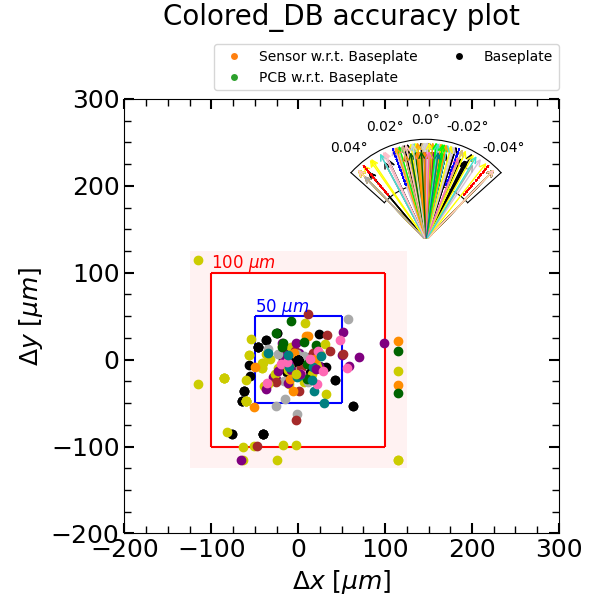
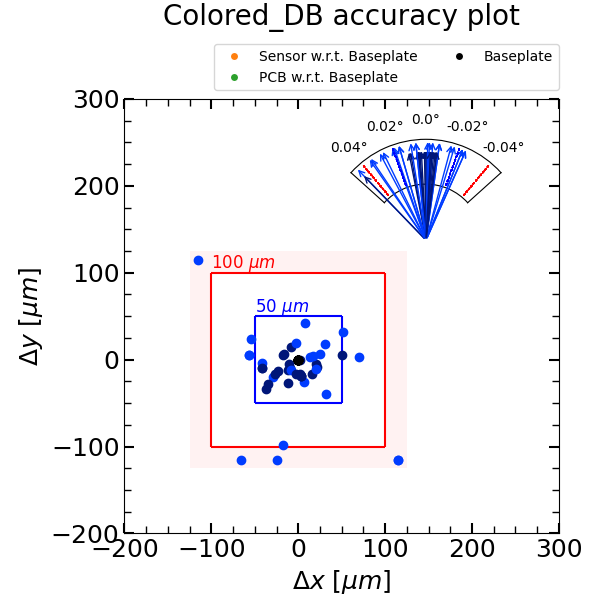
Made the Changes Nessecary For Doing Tray Specific Plots

diff --git a/make_accuracy_plot_PositionsNColorsExclusive.py b/make_accuracy_plot_PositionsNColorsExclusive.py
@@ -23,6 +23,8 @@ from matplotlib.ticker import MultipleLocator
 import matplotlib as mpl
 mpl.use('Agg')
 
+EXTray = '104'
+
 def returncolor(TrayPosition):
     Pos, Tray = TrayPosition
 
@@ -65,7 +67,7 @@ def make_accuracy_plot(List):
     List_rel_pcb_angle = List[6];
     List_Tray_Position = List[7];
     
-    module_name = 'Colored_DB'
+    module_name = 'Tray 104 History'
         
         ############################ || ORIENTATION SETTINGS || #######################
     """
@@ -155,54 +157,55 @@ def make_accuracy_plot(List):
 #    ax.hlines(0, -200, 300, colors='k')
 
     for i in range(len(List_module_name)):
-        
-        rel_sensor_X = List_rel_sensor_X[i] * 1000  #Modified here to have Manual Input
-        rel_sensor_Y = List_rel_sensor_Y[i] * 1000
-        rel_pcb_X    = List_rel_pcb_X[i] * 1000
-        rel_pcb_Y    = List_rel_pcb_Y[i] * 1000
-        
-        rel_sensor_X = List_rel_sensor_X[i] * 1000  #Modified here to have Manual Input
-        rel_sensor_Y = List_rel_sensor_Y[i] * 1000
-        rel_pcb_X    = List_rel_pcb_X[i] * 1000
-        rel_pcb_Y    = List_rel_pcb_Y[i] * 1000
-        
-        limit_func = lambda x: 115. if x > 100. else -115. if x < -100. else x
-        
-        m_rel_sensor_X = limit_func( rel_sensor_X )  
-        m_rel_sensor_Y = limit_func( rel_sensor_Y )
-        m_rel_pcb_X    = limit_func( rel_pcb_X    )
-        m_rel_pcb_Y    = limit_func( rel_pcb_Y    )
-        
-        scolor, hcolor = returncolor(List_Tray_Position[i])
-        
-        ax.plot(m_rel_sensor_X, m_rel_sensor_Y, marker='o', markerfacecolor=scolor, markeredgecolor=scolor, linestyle = 'None', label = 'Sensor w.r.t. Baseplate')
-        ax.plot(m_rel_pcb_X,    m_rel_pcb_Y,    marker='o', markerfacecolor=hcolor, markeredgecolor=hcolor, linestyle = 'None', label = 'PCB w.r.t. Baseplate')
-        
-        #if abs(m_rel_sensor_X) > 100. or abs(m_rel_sensor_Y) > 100.:
-        #    ax.text(m_rel_sensor_X, m_rel_sensor_Y, f'({rel_sensor_X:.0f}, {rel_sensor_Y:.0f})', color='#ff7f0e',
-        #            ha='right' if m_rel_sensor_X < -100. else 'left', va='top' if m_rel_sensor_Y < -100. else 'bottom')
-        #
-        #if abs(m_rel_pcb_X) > 100. or abs(m_rel_pcb_Y) > 100.:
-        #    ax.text(m_rel_pcb_X, m_rel_pcb_Y, f'({rel_pcb_X:.0f}, {rel_pcb_Y:.0f})', color='#2ca02c',
-        #            ha='right' if m_rel_sensor_X < -100. else 'left', va='top' if m_rel_sensor_Y < -100. else 'bottom')
-        
-        
-        
-        ax.plot(np.array([0.]), np.array([0.]), marker='o', markerfacecolor='k', markeredgecolor='k', linestyle = 'None', label = 'Baseplate')
-        
-        
-        plt.tick_params(axis='both', which='minor', direction='in', labelsize=0, length=5, width=1, right=True, top=True)
-        plt.tick_params(axis='both', which='major', direction='in', labelsize=18, length=7, width=1.5, right=True, top=True)
-        
-        
-        # Legend is hardcore 
-        legend_elements = [ Line2D([0], [0], marker='o', color='w', label='Sensor w.r.t. Baseplate', markerfacecolor='#ff7f0e'),
-                            Line2D([0], [0], marker='o', color='w', label='PCB w.r.t. Baseplate',    markerfacecolor='#2ca02c'),
-                            Line2D([0], [0], marker='o', color='w', label='Baseplate',               markerfacecolor='k')
-                            ]
-        
-        ax.legend(bbox_to_anchor=(0., 1.02, 1., .102), loc='lower right', ncol=2, borderaxespad=0., handles=legend_elements)
-        
+        if List_Tray_Position[i][1] == EXTray:
+
+            rel_sensor_X = List_rel_sensor_X[i] * 1000  #Modified here to have Manual Input
+            rel_sensor_Y = List_rel_sensor_Y[i] * 1000
+            rel_pcb_X    = List_rel_pcb_X[i] * 1000
+            rel_pcb_Y    = List_rel_pcb_Y[i] * 1000
+            
+            rel_sensor_X = List_rel_sensor_X[i] * 1000  #Modified here to have Manual Input
+            rel_sensor_Y = List_rel_sensor_Y[i] * 1000
+            rel_pcb_X    = List_rel_pcb_X[i] * 1000
+            rel_pcb_Y    = List_rel_pcb_Y[i] * 1000
+            
+            limit_func = lambda x: 115. if x > 100. else -115. if x < -100. else x
+            
+            m_rel_sensor_X = limit_func( rel_sensor_X )  
+            m_rel_sensor_Y = limit_func( rel_sensor_Y )
+            m_rel_pcb_X    = limit_func( rel_pcb_X    )
+            m_rel_pcb_Y    = limit_func( rel_pcb_Y    )
+            
+            scolor, hcolor = returncolor(List_Tray_Position[i])
+            
+            ax.plot(m_rel_sensor_X, m_rel_sensor_Y, marker='o', markerfacecolor=scolor, markeredgecolor=scolor, linestyle = 'None', label = 'Sensor w.r.t. Baseplate')
+            ax.plot(m_rel_pcb_X,    m_rel_pcb_Y,    marker='o', markerfacecolor=hcolor, markeredgecolor=hcolor, linestyle = 'None', label = 'PCB w.r.t. Baseplate')
+            
+            #if abs(m_rel_sensor_X) > 100. or abs(m_rel_sensor_Y) > 100.:
+            #    ax.text(m_rel_sensor_X, m_rel_sensor_Y, f'({rel_sensor_X:.0f}, {rel_sensor_Y:.0f})', color='#ff7f0e',
+            #            ha='right' if m_rel_sensor_X < -100. else 'left', va='top' if m_rel_sensor_Y < -100. else 'bottom')
+            #
+            #if abs(m_rel_pcb_X) > 100. or abs(m_rel_pcb_Y) > 100.:
+            #    ax.text(m_rel_pcb_X, m_rel_pcb_Y, f'({rel_pcb_X:.0f}, {rel_pcb_Y:.0f})', color='#2ca02c',
+            #            ha='right' if m_rel_sensor_X < -100. else 'left', va='top' if m_rel_sensor_Y < -100. else 'bottom')
+            
+            
+            
+            ax.plot(np.array([0.]), np.array([0.]), marker='o', markerfacecolor='k', markeredgecolor='k', linestyle = 'None', label = 'Baseplate')
+            
+            
+            plt.tick_params(axis='both', which='minor', direction='in', labelsize=0, length=5, width=1, right=True, top=True)
+            plt.tick_params(axis='both', which='major', direction='in', labelsize=18, length=7, width=1.5, right=True, top=True)
+            
+            
+            # Legend is hardcore 
+            legend_elements = [ Line2D([0], [0], marker='o', color='w', label='Sensor w.r.t. Baseplate', markerfacecolor='#ff7f0e'),
+                                Line2D([0], [0], marker='o', color='w', label='PCB w.r.t. Baseplate',    markerfacecolor='#2ca02c'),
+                                Line2D([0], [0], marker='o', color='w', label='Baseplate',               markerfacecolor='k')
+                                ]
+            
+            ax.legend(bbox_to_anchor=(0., 1.02, 1., .102), loc='lower right', ncol=2, borderaxespad=0., handles=legend_elements)
+            
         
     # Outside boundary region  ITS RIGHT HERE 
     ax.fill_between([-125, 125], 100, 125, color='r', alpha=0.05, linewidth=0)
@@ -253,70 +256,70 @@ def make_accuracy_plot(List):
     
     
     for i in range(len(List_module_name)):
-                       
-        rel_sensor_angle = List_rel_sensor_angle[i]  #Modified here to have Manual Input
-        rel_pcb_angle    = List_rel_pcb_angle[i]
-    
-        limit_angle_func = lambda x: orig_gauge_angle_max * 1.1 if x > orig_gauge_angle_max else -orig_gauge_angle_max * 1.1 if x < -orig_gauge_angle_max else x
-        orig_rel_sensor_angle = limit_angle_func(transfer_factor * rel_sensor_angle)
-        orig_rel_pcb_angle    = limit_angle_func(transfer_factor * rel_pcb_angle)
+        if List_Tray_Position[i][1] == EXTray:              
+            rel_sensor_angle = List_rel_sensor_angle[i]  #Modified here to have Manual Input
+            rel_pcb_angle    = List_rel_pcb_angle[i]
         
-        #if abs(orig_rel_sensor_angle) > orig_gauge_angle_max:
-        #    ax_sub.text( orig_rel_sensor_angle * np.pi / 180., 2, f'({rel_sensor_angle:.2f}°)', color='#ff7f0e',
-        #            ha='left' if orig_rel_sensor_angle < -orig_gauge_angle_max else 'right', va='bottom')
-        
-        #if abs(orig_rel_pcb_angle) > orig_gauge_angle_max:
-        #    ax_sub.text( (orig_rel_pcb_angle + (15 if orig_rel_pcb_angle > 0 else -15)) * np.pi / 180., 1.0, f'({rel_pcb_angle:.2f}°)', color='#2ca02c',
-        #            ha='left' if orig_rel_pcb_angle < -orig_gauge_angle_max else 'right', va='bottom')
-        
-        scolor, hcolor = returncolor(List_Tray_Position[i])
+            limit_angle_func = lambda x: orig_gauge_angle_max * 1.1 if x > orig_gauge_angle_max else -orig_gauge_angle_max * 1.1 if x < -orig_gauge_angle_max else x
+            orig_rel_sensor_angle = limit_angle_func(transfer_factor * rel_sensor_angle)
+            orig_rel_pcb_angle    = limit_angle_func(transfer_factor * rel_pcb_angle)
+            
+            #if abs(orig_rel_sensor_angle) > orig_gauge_angle_max:
+            #    ax_sub.text( orig_rel_sensor_angle * np.pi / 180., 2, f'({rel_sensor_angle:.2f}°)', color='#ff7f0e',
+            #            ha='left' if orig_rel_sensor_angle < -orig_gauge_angle_max else 'right', va='bottom')
+            
+            #if abs(orig_rel_pcb_angle) > orig_gauge_angle_max:
+            #    ax_sub.text( (orig_rel_pcb_angle + (15 if orig_rel_pcb_angle > 0 else -15)) * np.pi / 180., 1.0, f'({rel_pcb_angle:.2f}°)', color='#2ca02c',
+            #            ha='left' if orig_rel_pcb_angle < -orig_gauge_angle_max else 'right', va='bottom')
+            
+            scolor, hcolor = returncolor(List_Tray_Position[i])
 
-        ax_sub.annotate('', xy        = (orig_rel_sensor_angle * np.pi / 180., 2),
-                        xytext    = (0., -2.5),
-                        arrowprops= dict(color    =scolor,
-                                         arrowstyle="->"),
-                    )
-        ax_sub.annotate('', xy        = (orig_rel_pcb_angle * np.pi / 180., 1.6),
-                        xytext    = (0., -2.5),
-                        arrowprops= dict(color    =hcolor,
-                                         arrowstyle="->"),
-                    )
-        
-        #    ax_sub.annotate('', xy        = (transfer_factor * 0. * np.pi / 180., 2),
-        #                    xytext    = (0., -2.5),
-        #                    arrowprops= dict(color    ='k',
-        #                                     arrowstyle="->",
-        #                                     ),
-        #                )
-        ax_sub.annotate('', xy        = (transfer_factor * 0.02 * np.pi / 180., 2),
-                        xytext    = (transfer_factor * 0.02 * np.pi / 180., 0.),
-                        arrowprops= dict(color    ='b',
-                                         arrowstyle="-",
-                                         linestyle ="dotted"
-                                         ),
-                    )
-        ax_sub.annotate('', xy        = (transfer_factor * -0.02 * np.pi / 180., 2),
-                        xytext    = (transfer_factor * -0.02 * np.pi / 180., 0.),
-                        arrowprops= dict(color    ='b',
-                                         arrowstyle="-",
-                                         linestyle ="dotted"
-                                         ),
-                    )
-        ax_sub.annotate('', xy        = (transfer_factor * 0.04 * np.pi / 180., 2),
-                        xytext    = (transfer_factor * 0.04 * np.pi / 180., 0.),
-                        arrowprops= dict(color    ='r',
-                                         arrowstyle="-",
-                                         linestyle ="dotted"
-                                         ),
-                    )
-        ax_sub.annotate('', xy        = (transfer_factor * -0.04 * np.pi / 180., 2),
-                        xytext    = (transfer_factor * -0.04 * np.pi / 180., 0.),
-                        arrowprops= dict(color    ='r',
-                                         arrowstyle="-",
-                                         linestyle ="dotted"
-                 
-                                         ),
-                    )
+            ax_sub.annotate('', xy        = (orig_rel_sensor_angle * np.pi / 180., 2),
+                            xytext    = (0., -2.5),
+                            arrowprops= dict(color    =scolor,
+                                            arrowstyle="->"),
+                        )
+            ax_sub.annotate('', xy        = (orig_rel_pcb_angle * np.pi / 180., 1.6),
+                            xytext    = (0., -2.5),
+                            arrowprops= dict(color    =hcolor,
+                                            arrowstyle="->"),
+                        )
+            
+            #    ax_sub.annotate('', xy        = (transfer_factor * 0. * np.pi / 180., 2),
+            #                    xytext    = (0., -2.5),
+            #                    arrowprops= dict(color    ='k',
+            #                                     arrowstyle="->",
+            #                                     ),
+            #                )
+            ax_sub.annotate('', xy        = (transfer_factor * 0.02 * np.pi / 180., 2),
+                            xytext    = (transfer_factor * 0.02 * np.pi / 180., 0.),
+                            arrowprops= dict(color    ='b',
+                                            arrowstyle="-",
+                                            linestyle ="dotted"
+                                            ),
+                        )
+            ax_sub.annotate('', xy        = (transfer_factor * -0.02 * np.pi / 180., 2),
+                            xytext    = (transfer_factor * -0.02 * np.pi / 180., 0.),
+                            arrowprops= dict(color    ='b',
+                                            arrowstyle="-",
+                                            linestyle ="dotted"
+                                            ),
+                        )
+            ax_sub.annotate('', xy        = (transfer_factor * 0.04 * np.pi / 180., 2),
+                            xytext    = (transfer_factor * 0.04 * np.pi / 180., 0.),
+                            arrowprops= dict(color    ='r',
+                                            arrowstyle="-",
+                                            linestyle ="dotted"
+                                            ),
+                        )
+            ax_sub.annotate('', xy        = (transfer_factor * -0.04 * np.pi / 180., 2),
+                            xytext    = (transfer_factor * -0.04 * np.pi / 180., 0.),
+                            arrowprops= dict(color    ='r',
+                                            arrowstyle="-",
+                                            linestyle ="dotted"
+                    
+                                            ),
+                        )
 
 
     # Outside boundary region

diff --git a/Controller_Positions.py b/Controller_Positions.py
@@ -1,6 +1,6 @@
 import asyncio
 import numpy as np
-import make_accuracy_plot_PositionsNColors, PGConnect
+import make_accuracy_plot_PositionsNColorsExclusive, PGConnect
 
 async def main():
     List = await PGConnect.read_db_pos()
@@ -38,9 +38,7 @@ async def main():
     listA = [List_module_name[-number:], List_rel_sensor_X[-number:], List_rel_sensor_Y[-number:], List_rel_pcb_X[-number:],
               List_rel_pcb_Y[-number:], List_rel_sensor_angle[-number:], List_rel_pcb_angle[-number:],
                 List_Tray_Position[-number:]]
-    for Name in List_module_name[-number:]:
-        print(Name)
         
-    make_accuracy_plot_PositionsNColors.make_accuracy_plot(listA)
+    make_accuracy_plot_PositionsNColorsExclusive.make_accuracy_plot(listA)
 
 asyncio.run(main())
